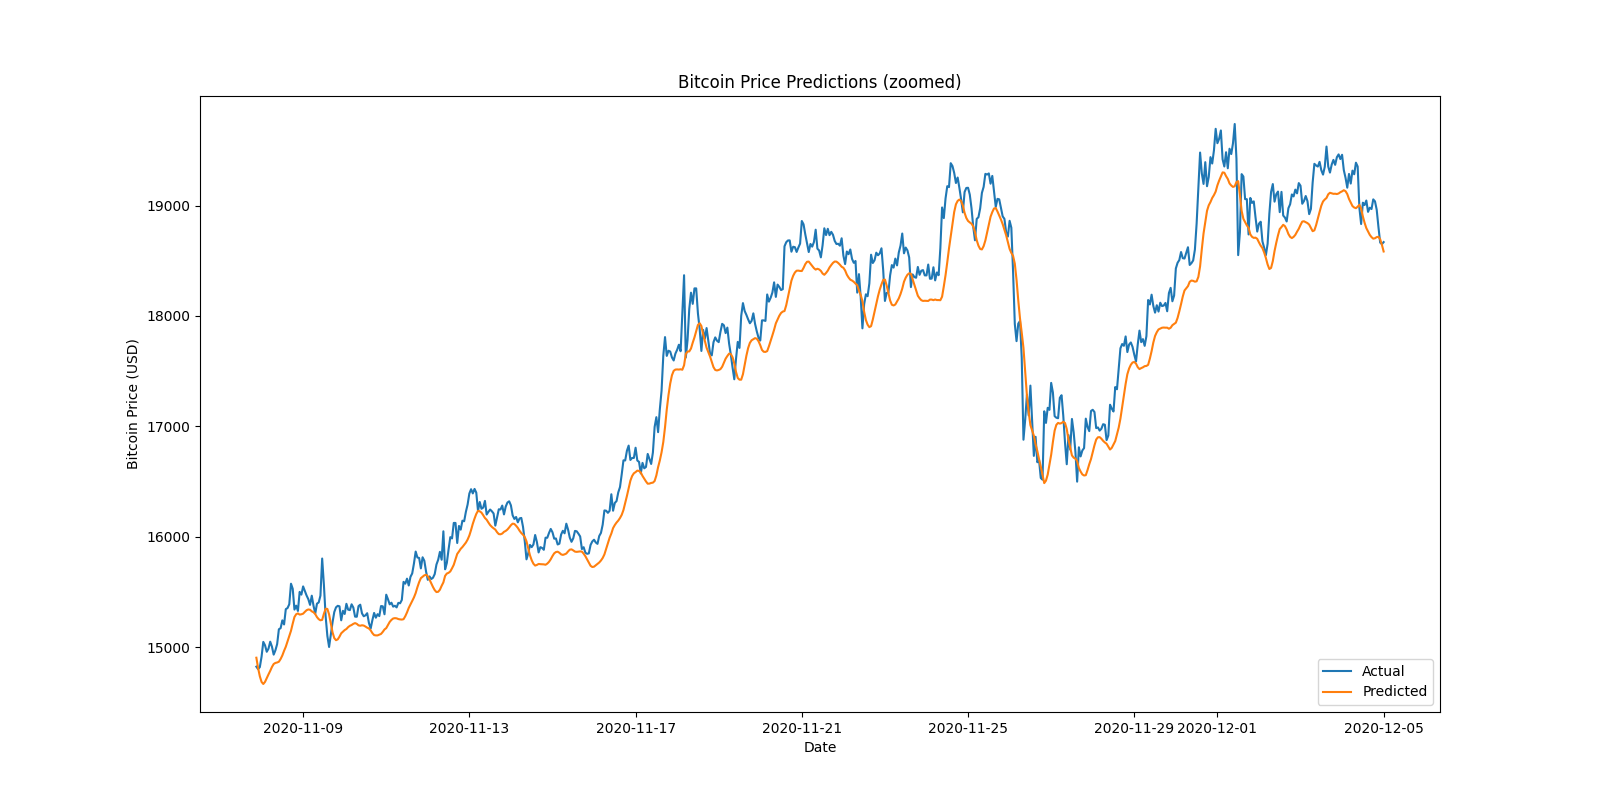
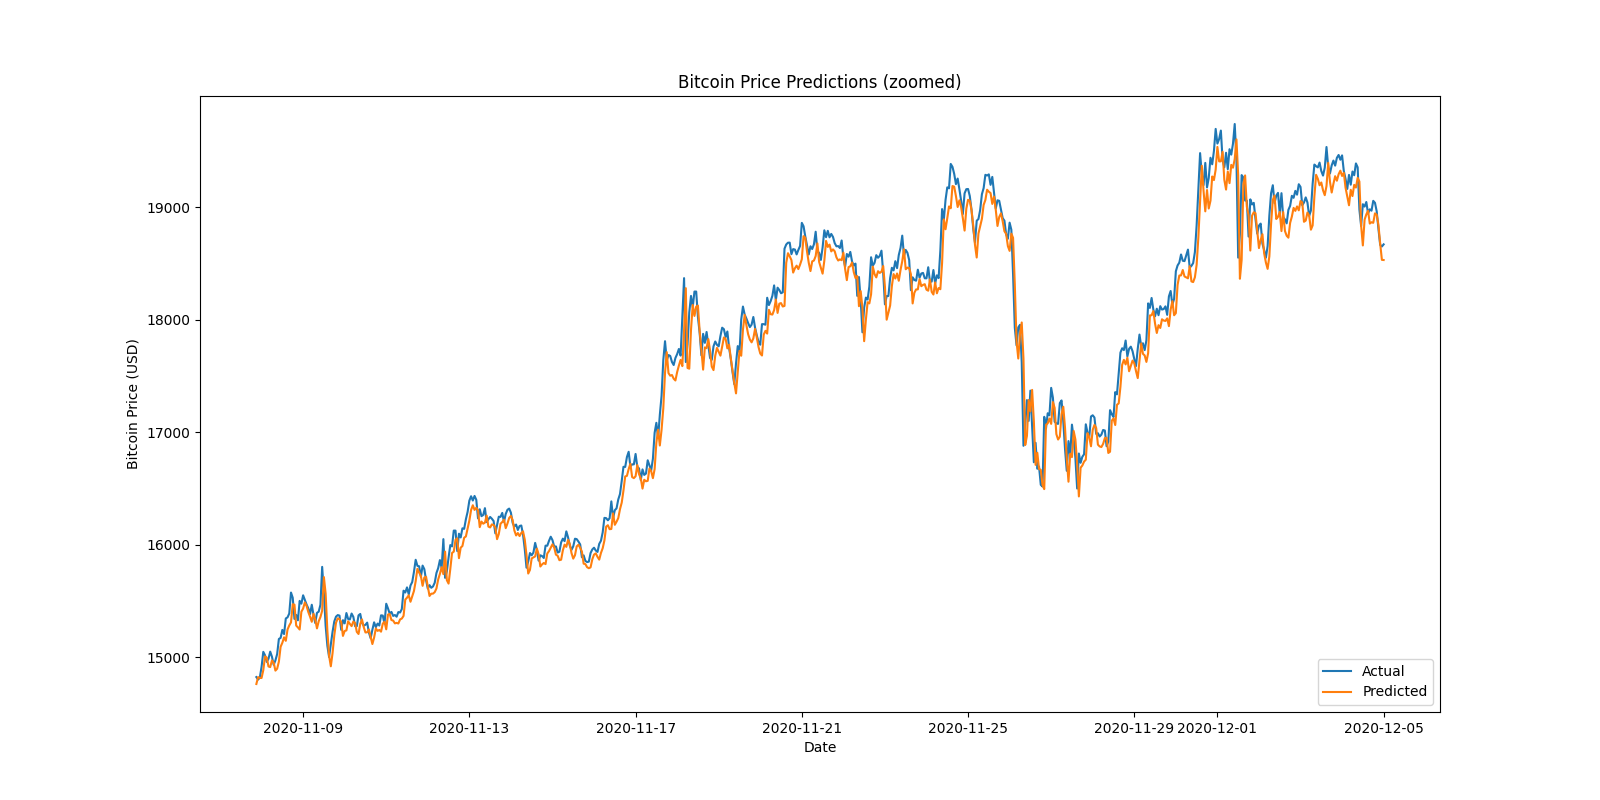
going back to first idea. updated model

diff --git a/predict_bc.py b/predict_bc.py
@@ -42,7 +42,7 @@ plot_and_save(df['close'], 'Date', 'Bitcoin Price (USD)', 'Hourly Close Price Hi
 #this pointless ngl. don't use the function ^
 
 midpoint = 2350
-lookback = 100
+lookback = 80
 
 #creating dataframe
 data = df.sort_index(ascending=True, axis=0)
@@ -75,12 +75,12 @@ x_train = np.reshape(x_train, (x_train.shape[0],x_train.shape[1],1))
 
 # create and fit the LSTM network
 model = Sequential()
-model.add(LSTM(units=50, return_sequences=True, input_shape=(x_train.shape[1],1)))
-model.add(LSTM(units=50))
+model.add(LSTM(units=65, return_sequences=True, input_shape=(x_train.shape[1],1))) #units=hidden state length
+model.add(LSTM(units=65))
 model.add(Dense(1))
 
 model.compile(loss='mean_squared_error', optimizer='adam')
-model.fit(x_train, y_train, epochs=1, batch_size=1, verbose=2)
+model.fit(x_train, y_train, epochs=3, batch_size=1, verbose=2)
 
 #predicting values, using past lookback from the train data
 inputs = new_data[len(new_data) - len(valid) - lookback:].values

diff --git a/bittrex.py b/bittrex.py
@@ -1,0 +1,8 @@
+import requests, json, datetime
+#using crypto compare
+
+#load api_key
+
+class Bittrex:
+    def __init__(self, key):
+        self.key = key

diff --git a/CryptoTrader.py b/CryptoTrader.py
@@ -1,0 +1,7 @@
+import requests, json, datetime
+#using crypto compare
+
+#load api_key
+
+class CryptoTrader:
+    pass
